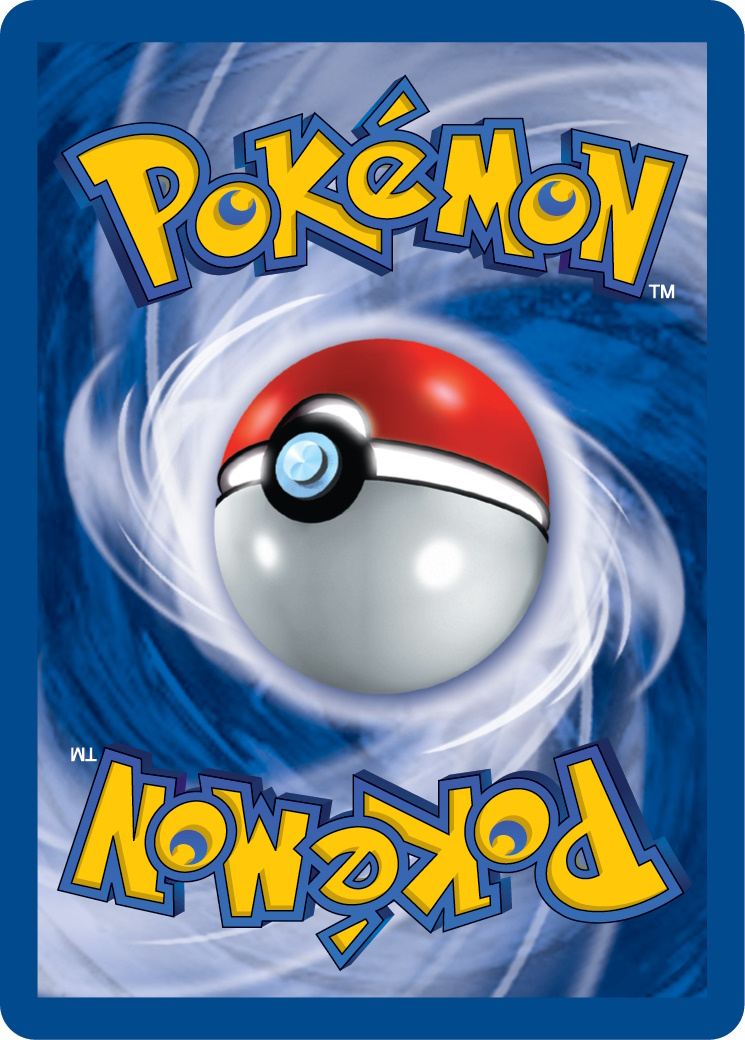
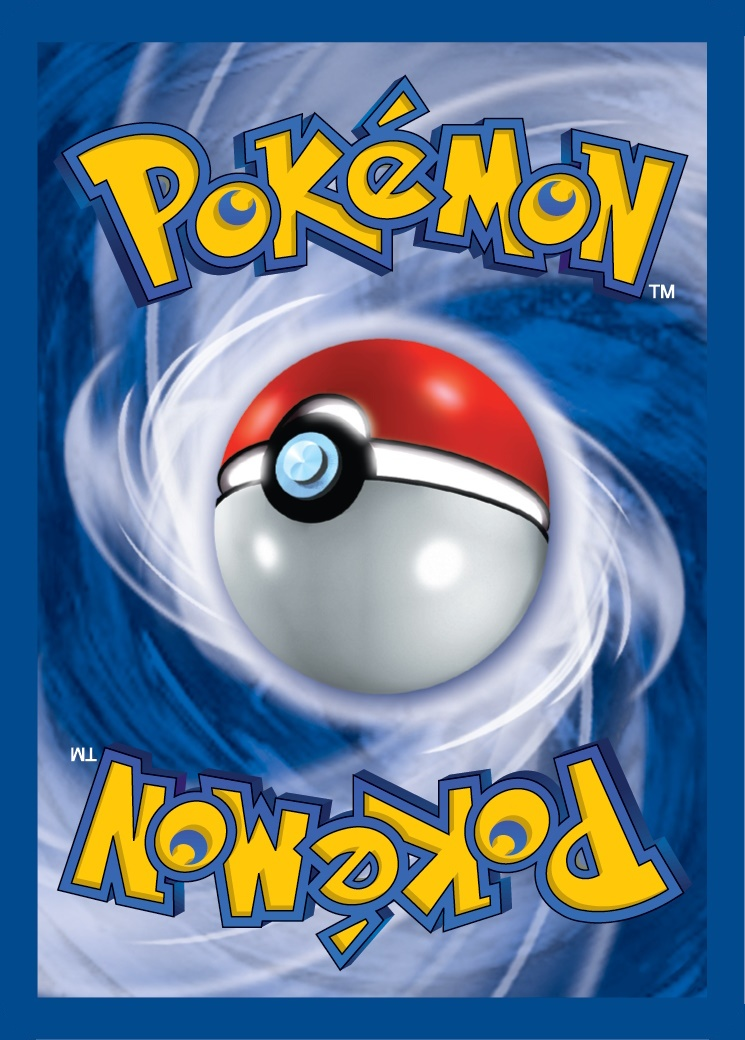
fix: rellenar las 4 esquinas blancas del reverso clásico con el azul del borde
Cardback.jpg es un rectángulo recto con una carta de esquinas redondeadas
dibujada adentro -- las 4 esquinas fuera de esa curva quedaban blancas
(fondo de la imagen original), visibles como manchas blancas en cualquier
slot de carta que no recortara a esquinas redondeadas. Se rellenan con el
mismo azul del contorno (RGB 1,74,142) usando una máscara geométrica de
rectángulo redondeado (radio 42px, medido de la propia imagen) en vez de
un flood-fill por color -- el ruido de compresión JPEG en el blanco
original dejaba un halo delgado sin cubrir con flood-fill.

Bump a ?v=2 en CARD_BACK_URL para que no quede cacheada la versión vieja.

diff --git a/ui.js b/ui.js
@@ -66,7 +66,7 @@ function playerDisplayName() {
 // Real Base Set-era card back -- the CPU's hand always shows this one
 // (see cpuHandRowHtml); it's also the fallback/default for the player's own
 // deck/discard/prizes, which the player can instead personalize below.
-var CARD_BACK_URL = 'Cartas/Cardback.jpg';
+var CARD_BACK_URL = 'Cartas/Cardback.jpg?v=2';
 
 // Card backs the player can choose for their OWN deck/discard/prizes only
 // -- the rival's cards always show CARD_BACK_URL, per user request. A
